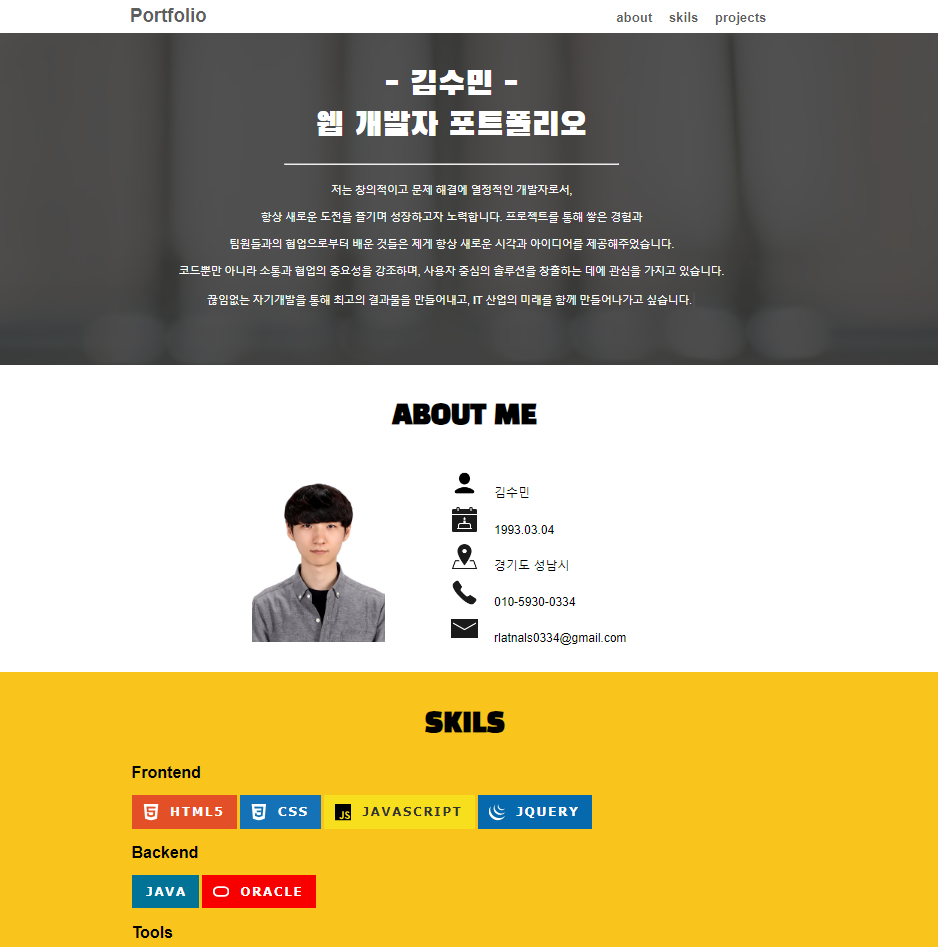
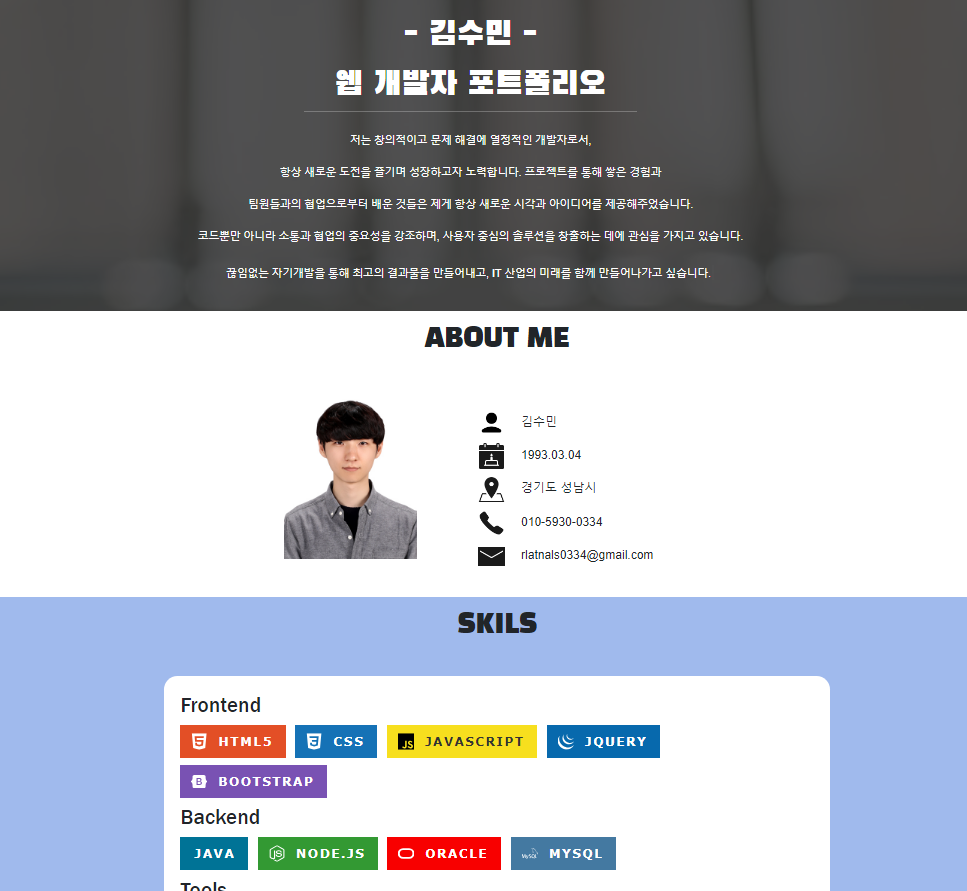
부트스트랩 적용

diff --git a/index.html b/index.html
@@ -1,6 +1,8 @@
 <!DOCTYPE html>
 <html lang="en">
 <head>
+	<link href="https://cdn.jsdelivr.net/npm/bootstrap@5.3.1/dist/css/bootstrap.min.css" rel="stylesheet" integrity="sha384-4bw+/aepP/YC94hEpVNVgiZdgIC5+VKNBQNGCHeKRQN+PtmoHDEXuppvnDJzQIu9" crossorigin="anonymous">
+	<script src="https://cdn.jsdelivr.net/npm/bootstrap@5.3.1/dist/js/bootstrap.bundle.min.js" integrity="sha384-HwwvtgBNo3bZJJLYd8oVXjrBZt8cqVSpeBNS5n7C8IVInixGAoxmnlMuBnhbgrkm" crossorigin="anonymous"></script>
     <meta charset="UTF-8">
     <meta name="viewport" content="width=device-width, initial-scale=1.0">
     <link rel="stylesheet" href="style.css">
@@ -14,18 +16,26 @@
 <body>
     <header>
         <div id="main">
-        	<div id="top_menu">
-        		<div id="logo"><a href="#main">Portfolio</a></div>
-        		<div><a href="#about">about</a></div>
-        		<div><a href="#skilset">skils</a></div>
-        		<div><a href="#projects">projects</a></div>
-        	</div>
+			<nav id="navbar-example2" class="navbar bg-body-tertiary px-3 mb-3 fixed-top">
+				<a class="navbar-brand fs-3 shadow-sm" href="#">Portfolio</a>
+				<ul class="nav nav-pills">
+				  <li class="nav-item">
+					<a class="nav-link fs-5" href="#scrollspyHeading1">About</a>
+				  </li>
+				  <li class="nav-item">
+					<a class="nav-link fs-5" href="#scrollspyHeading2">Skils</a>
+				  </li>
+				  <li class="nav-item">
+					<a class="nav-link fs-5" href="#scrollspyHeading3">Projects</a>
+				  </li>
+				</ul>
+			</nav>
             <div class="text_box" data-trigger>
-            	<span>- 김수민 -</span><br>
+            	<span>- 김 수 민 -</span><br>
             	<span>웹 개발자 포트폴리오</span><br>
             	<hr>
 			</div>
-			<span class="text"></span><span class="blink">|</span>
+			<span class="text" id="scrollspyHeading1"></span><span class="blink">|</span>
         </div>
     </header>
 
@@ -38,7 +48,7 @@
             		<ul>
             			<li>
 		            		<img width="40" height="40" src="https://img.icons8.com/ios-glyphs/50/user--v1.png" alt="user--v1"/>
-	            			<span>김수민</span>
+	            			<span><b>김 수 민</b></span>
             			</li>
             			<li>
 		            		<img width="40" height="40" src="https://img.icons8.com/ios-filled/50/1A1A1A/birth-date.png" alt="birth-date"/>
@@ -54,7 +64,7 @@
             			</li>
             			<li>
 		            		<img width="40" height="40" src="https://img.icons8.com/ios-filled/50/1A1A1A/mail.png" alt="mail"/>
-	            			<span>rlatnals0334@gmail.com</span>
+	            			<span id="scrollspyHeading2">rlatnals0334@gmail.com</span>
             			</li>
             		</ul>
             	</div>
@@ -81,8 +91,8 @@
 	            	<img src="https://img.shields.io/badge/springboot-6DB33F?style=for-the-badge&logo=springboot&logoColor=white">
 	            	<img src="https://img.shields.io/badge/Visual%20Studio%20Code-007ACC.svg?&style=for-the-badge&logo=Visual%20Studio%20Code&logoColor=white">
             	<h2>Etc</h2>
-				<img src="https://img.shields.io/badge/amazonaws-232F3E?style=for-the-badge&logo=amazonaws&logoColor=white">
-	            	<img src="https://img.shields.io/badge/github-181717?style=for-the-badge&logo=github&logoColor=white">
+					<img src="https://img.shields.io/badge/amazonaws-232F3E?style=for-the-badge&logo=amazonaws&logoColor=white">
+	            	<img  id="scrollspyHeading3" src="https://img.shields.io/badge/github-181717?style=for-the-badge&logo=github&logoColor=white">
             </div>
         </div>
     </section>
@@ -93,7 +103,7 @@
             <div class="pjbox">
             	<div class="title" style="padding: 20px 0 0 0;">도서판매 사이트</div>
             	<div class="date">2023.10.24 ~ 2023.12.15 (5人 팀프로젝트)</div>
-            	<div class="pjimg"><img style="width: 100%; height: 500px; border: 1px solid black;" src="book.png"></div>
+            	<div class="pjimg"><img style="width: 400px; height: 500px; border: 1px solid black;" src="book.png"></div>
             	<div class="pjdetail">
             		<span style="display: inline-block;">
             			<b>기본적인 도서를 종류별로 온라인 판매하는 사이트</b>입니다.
@@ -126,7 +136,7 @@
             <div class="pjbox">
             	<div class="title" style="padding: 20px 0 0 0;">웹 포트폴리오</div>
             	<div class="date">2023.11.08 ~ (1人 팀프로젝트)</div>
-            	<div class="pjimg"><img style="width: 100%; height: 500px; border: 1px solid black;" src="portfolio.png"></div>
+            	<div class="pjimg"><img style="width: 400px; height: 500px; border: 1px solid black;" src="portfolio.png"></div>
             	<div class="pjdetail">
             		<span style="display: inline-block;">
             			<b>취업용으로 만든 포트폴리오</b>입니다.
@@ -134,10 +144,10 @@
             			<br><br>
             			기본적인 js, css, html을 이용하여 구현했습니다.
             			<br><br>
-            			부트스트랩을 이용해 보려고도 했으나 하나하나 직접 만들어 보고 싶어서 하나씩 기능을 넣어보는 재미가 있었습니다.
+            			부트스트랩을 이용해 간단한 메뉴구성을 세팅하고 컨텐츠 부분은 css로 하나하나 작성해보았습니다.
             			<br><br>
             			다시 한번 제가 알고있는 기능들을 설명하며 개발자로서 얼마나 준비가 되어있는지 확인할 수 있었고 아직 많이 부족하다고 판단하여 추가적인 공부를 할 수 있는 계기가 되어준거 같습니다.
-						<br><br><br>
+						<br><br>
             		</span>
             		<hr>
             			<b>작업내용</b>
@@ -152,7 +162,7 @@
             <div class="pjbox">
             	<div class="title" style="padding: 20px 0 0 0;">로그인 페이지</div>
             	<div class="date">2023.12.12 ~ (1人 팀프로젝트)</div>
-            	<div class="pjimg"><img style="width: 100%; height: 500px; border: 1px solid black;" src="login.png"></div>
+            	<div class="pjimg"><img style="width: 400px; height: 500px; border: 1px solid black;" src="login.png"></div>
             	<div class="pjdetail">
             		<span style="display: inline-block;">
             			<b>node.js를 처음 공부하며 구현한 페이지</b>입니다.
@@ -181,7 +191,7 @@
 
     <footer>
         <div class="container">
-            <p>&copy; 2023 Your Portfolio. All rights reserved.</p>
+            <p>&copy; 2023 Soomin Portfolio. All rights reserved.</p>
         </div>
     </footer>
 

diff --git a/style.css b/style.css
@@ -49,7 +49,9 @@ header {
 	padding: 100px 0 0 0 ;
 }
 .text_box hr {
+	margin: 0 auto;
 	width: 500px;
+	margin-bottom: 30px;
 }
 
 .text_box span {
@@ -88,12 +90,14 @@ a:active {font-weight: bold; color: white; text-decoration: none;}
 }
 
 #about #my {
+	margin-top: 30px;
 	margin-left: 180px;
 	margin-right: 50px;
 	width: 200px;
 	display: inline-block;
 }
 #about #my img {
+	float: left;
 	width: 200px;
 }
 #about #info {
@@ -115,14 +119,22 @@ a:active {font-weight: bold; color: white; text-decoration: none;}
 	height: 750px;
 }
 
+#skilset .skbox h2 {
+	font-family: 'Franklin Gothic Medium', 'Arial Narrow', Arial, sans-serif;
+	margin: 5px;
+}
+
 #skilset .skbox {
 	background-color: white;
 	padding: 20px;
 	border: 1px solid none;
 	border-radius: 20px;
+	width: 1000px;
+	margin-top: 50px;
 }
 
 #skilset img {
+	margin: 5px;
 	height: 50px;
 }
 
@@ -136,18 +148,20 @@ a:active {font-weight: bold; color: white; text-decoration: none;}
 	background-color: white;
 	width: 1000px;
 	height: 800px;
-	margin: 0px auto 80px;
+	margin: 50px auto 80px;
 }
 #projects .date {
 	text-align: center;
 	color: #aaaaaa;
 }
 #projects .pjimg {
-	padding: 100px 50px 30px 70px;
+	margin: 50px;
+	float: left;
 	width: 400px;
 	display: inline-block;
 }
 #projects .pjdetail {
+	padding: 10px;
 	display: inline-block;
 	width: 400px;
 	height: 500px;
